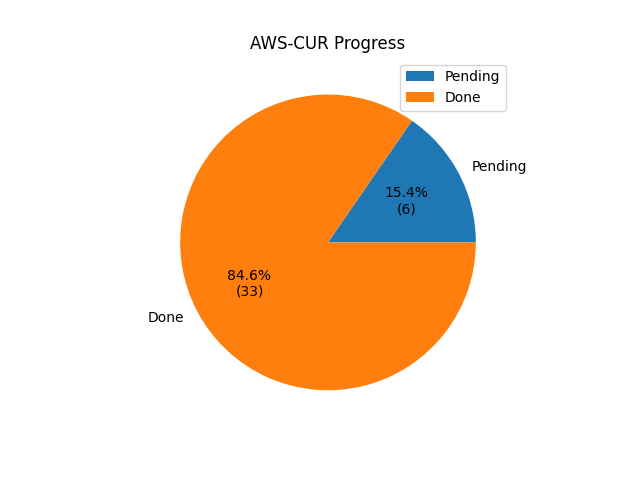
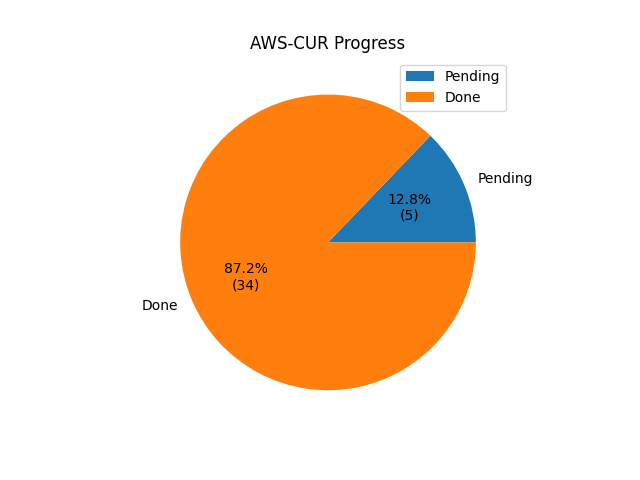
Commit from GitHub Actions (Export Conversion Rules)

diff --git a/conversion_rules_export/markdown/aws.md b/conversion_rules_export/markdown/aws.md
@@ -3,7 +3,6 @@
 | BillingAccountName         |                0 | Not Defined                     | Not Defined          | Not Defined         | Not Defined                                                                                                                                         |
 | ChargeCategory             |                0 | Not Defined                     | Not Defined          | Not Defined         | Not Defined                                                                                                                                         |
 | CommitmentDiscountName     |                0 | Not Defined                     | Not Defined          | Not Defined         | Not Defined                                                                                                                                         |
-| PricingCategory            |                0 | Not Defined                     | Not Defined          | Not Defined         | Not Defined                                                                                                                                         |
 | SubAccountId               |                0 | Not Defined                     | Not Defined          | Not Defined         | Not Defined                                                                                                                                         |
 | SubAccountName             |                0 | Not Defined                     | Not Defined          | Not Defined         | Not Defined                                                                                                                                         |
 | AvailabilityZone           |                1 | line_item_availability_zone     | Not Defined          | RENAME_COLUMN       |                                                                                                                                                     |
@@ -82,6 +81,13 @@
 |                            |                  |                                 |                      |                     |   * line_item_usage_amount                                                                                                                          |
 |                            |                  |                                 |                      |                     | default_value: pricing_public_on_demand_cost                                                                                                        |
 | ListUnitPrice              |                1 | pricing_public_on_demand_rate   | float                | RENAME_COLUMN       |                                                                                                                                                     |
+| PricingCategory            |                1 | NA                              | Not Defined          | SQL_QUERY           | SELECT *, CASE                                                                                                                                      |
+|                            |                  |                                 |                      |                     |     WHEN ("product_purchase_option" = 'On-Demand') THEN 'On-Demand'                                                                                 |
+|                            |                  |                                 |                      |                     |     WHEN ("product_purchase_option" = 'Reserved Instances') THEN 'Commitment-Based'                                                                 |
+|                            |                  |                                 |                      |                     |     WHEN ("product_purchase_option" = 'Spot Instances') THEN 'Dynamic'                                                                              |
+|                            |                  |                                 |                      |                     |     WHEN ("product_purchase_option" = 'Dedicated Hosts') THEN 'On-Demand'                                                                           |
+|                            |                  |                                 |                      |                     |     ELSE NULL                                                                                                                                       |
+|                            |                  |                                 |                      |                     | END AS PricingCategory FROM {{ TABLE_NAME }}                                                                                                        |
 | PricingQuantity            |                1 | line_item_usage_amount          | Not Defined          | SQL_CONDITION       | conditions:                                                                                                                                         |
 |                            |                  |                                 |                      |                     | - WHEN reservation_total_reserved_units is not null THEN reservation_total_reserved_units                                                           |
 |                            |                  |                                 |                      |                     | default_value: line_item_usage_amount                                                                                                               |

diff --git a/conversion_rules_export/markdown/aws-cur.md b/conversion_rules_export/markdown/aws-cur.md
@@ -3,7 +3,6 @@
 | BillingAccountName         |                0 | Not Defined                  | Not Defined          | Not Defined         | Not Defined                                                                                                                                    |
 | ChargeCategory             |                0 | Not Defined                  | Not Defined          | Not Defined         | Not Defined                                                                                                                                    |
 | CommitmentDiscountName     |                0 | Not Defined                  | Not Defined          | Not Defined         | Not Defined                                                                                                                                    |
-| PricingCategory            |                0 | Not Defined                  | Not Defined          | Not Defined         | Not Defined                                                                                                                                    |
 | SubAccountId               |                0 | Not Defined                  | Not Defined          | Not Defined         | Not Defined                                                                                                                                    |
 | SubAccountName             |                0 | Not Defined                  | Not Defined          | Not Defined         | Not Defined                                                                                                                                    |
 | AvailabilityZone           |                1 | lineItem/AvailabilityZone    | Not Defined          | RENAME_COLUMN       |                                                                                                                                                |
@@ -82,6 +81,13 @@
 |                            |                  |                              |                      |                     |   * "lineItem/UsageAmount"                                                                                                                     |
 |                            |                  |                              |                      |                     | default_value: '"pricing/publicOnDemandCost"'                                                                                                  |
 | ListUnitPrice              |                1 | pricing/publicOnDemandRate   | float                | RENAME_COLUMN       |                                                                                                                                                |
+| PricingCategory            |                1 | NA                           | Not Defined          | SQL_QUERY           | SELECT *, CASE                                                                                                                                 |
+|                            |                  |                              |                      |                     |     WHEN ("product/PurchaseOption" = 'On-Demand') THEN 'On-Demand'                                                                             |
+|                            |                  |                              |                      |                     |     WHEN ("product/PurchaseOption" = 'Reserved Instances') THEN 'Commitment-Based'                                                             |
+|                            |                  |                              |                      |                     |     WHEN ("product/PurchaseOption" = 'Spot Instances') THEN 'Dynamic'                                                                          |
+|                            |                  |                              |                      |                     |     WHEN ("product/PurchaseOption" = 'Dedicated Hosts') THEN 'On-Demand'                                                                       |
+|                            |                  |                              |                      |                     |     ELSE NULL                                                                                                                                  |
+|                            |                  |                              |                      |                     | END AS PricingCategory FROM {{ TABLE_NAME }}                                                                                                   |
 | PricingQuantity            |                1 | lineItem/UsageAmount         | Not Defined          | SQL_CONDITION       | conditions:                                                                                                                                    |
 |                            |                  |                              |                      |                     | - WHEN "reservation/TotalReservedUnits" is not null THEN "reservation/TotalReservedUnits"                                                      |
 |                            |                  |                              |                      |                     | default_value: '"lineItem/UsageAmount"'                                                                                                        |
